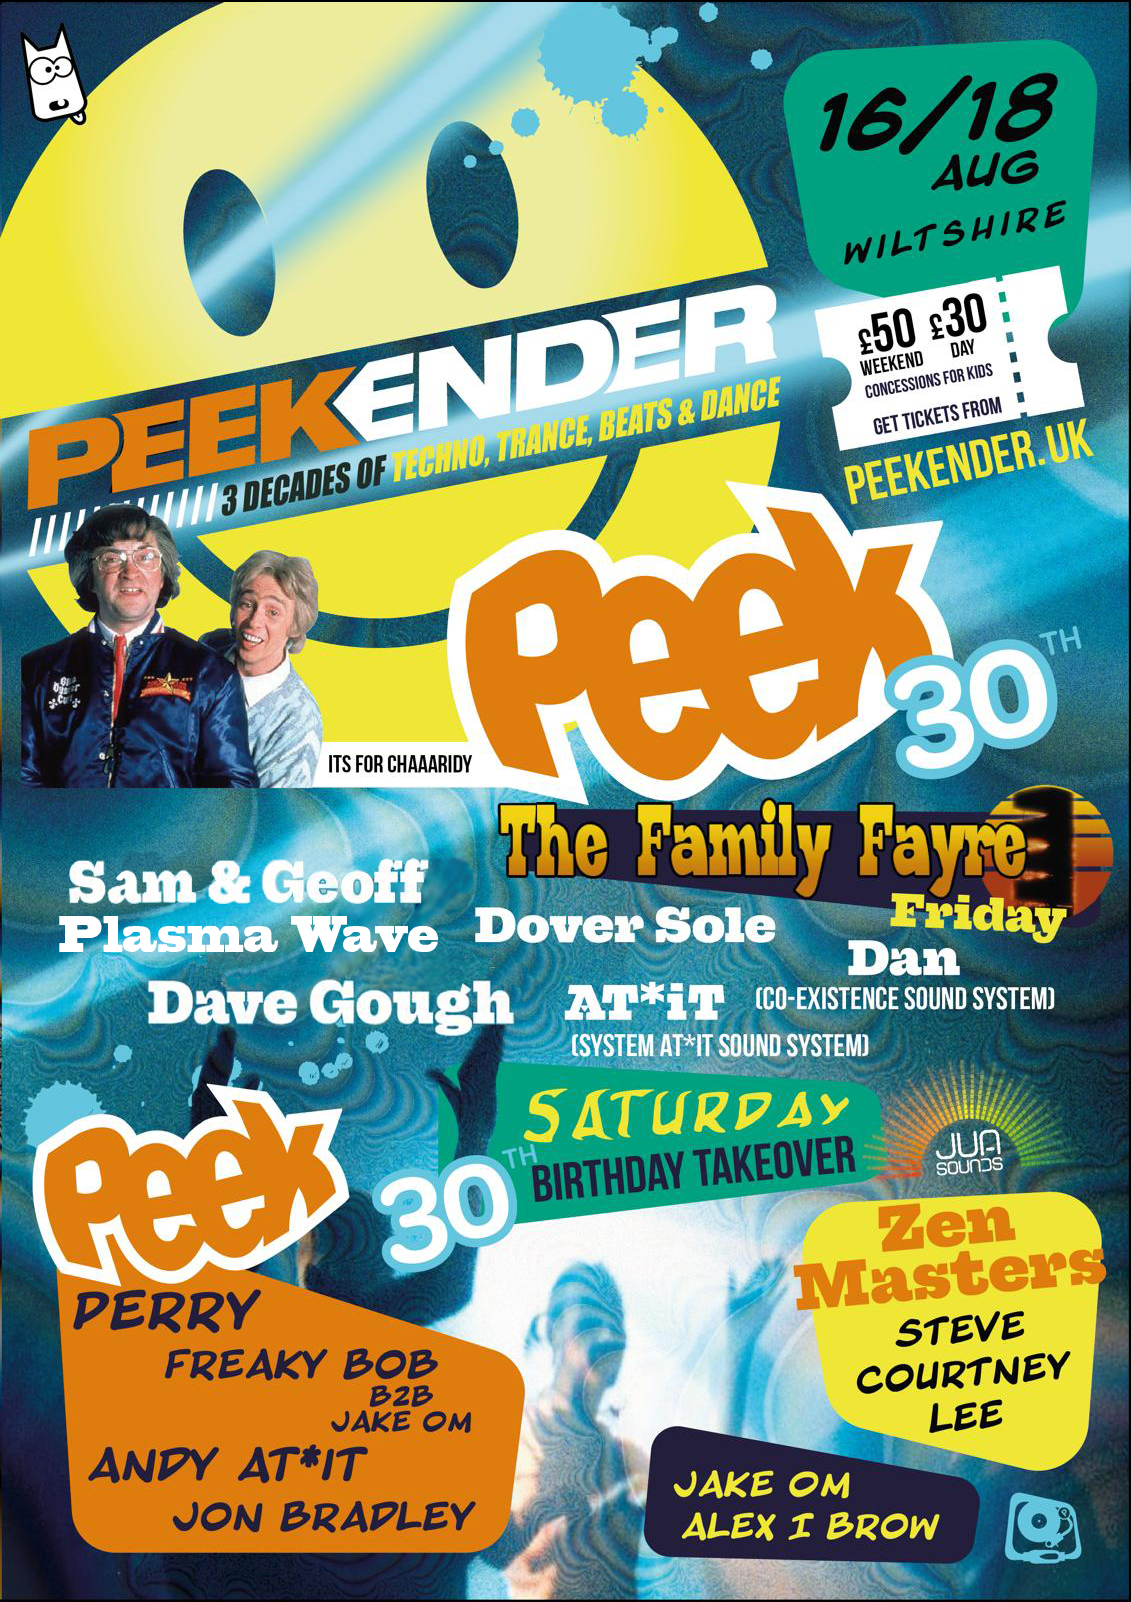
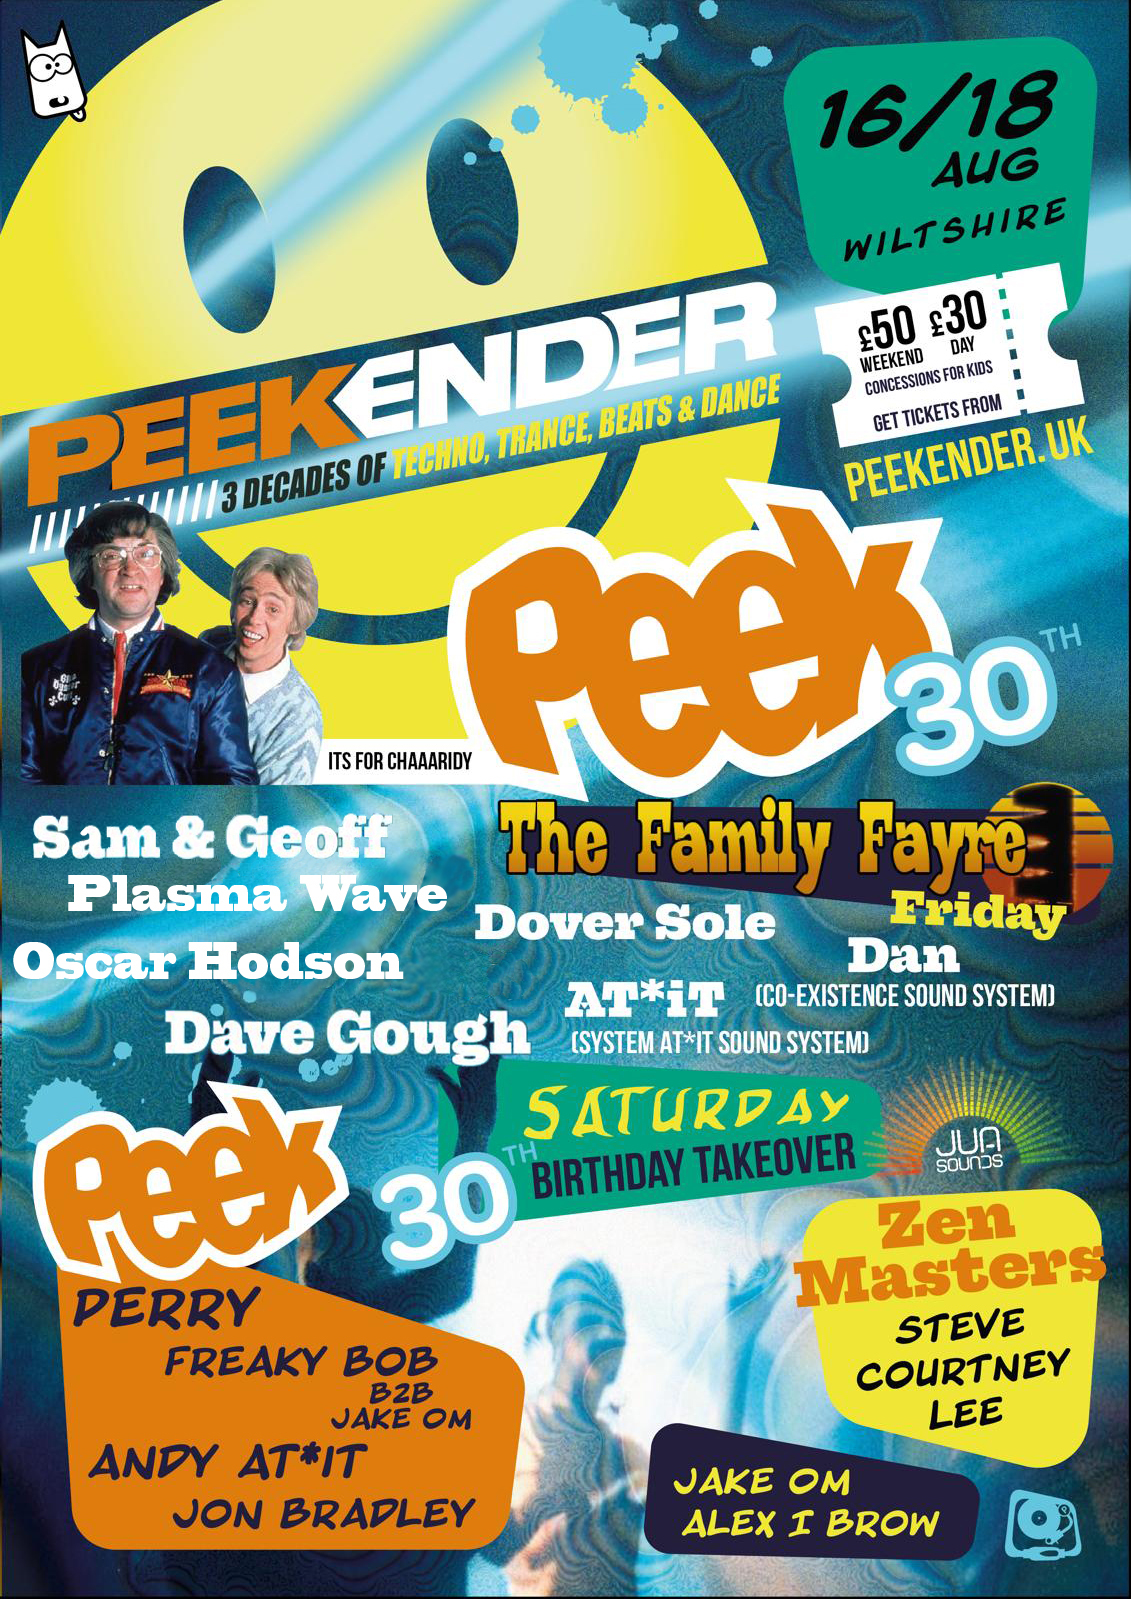
updates

diff --git a/line_up.html b/line_up.html
@@ -77,11 +77,12 @@
             <div class="grid-text1" id="line-up">
 				<h4>The line-up is still being organised and we'll add details here as they come in</h4>
                 <h2>Family Fayre Friday</h2>
+				<p>Oscar Hodson</p>
+				<p>Dave Gough</p>
 				<p>Sam and Geoff - Plasma Wave</p>
+                <p>Andy AT*iT (System AT*iT Sound System)</p>
 				<p>Dover Sole</p>
                 <p>Dan (Co-Existence Sound System)</p>
-				<p>Dave Gough</p>
-                <p>Andy AT*iT (System AT*iT Sound System)</p>
                 <br>
                 <h2>Peek Saturday - 30th Birthday Take Over</h2>
                 <h4>Zen Masters</h4>

diff --git a/index.html b/index.html
@@ -71,7 +71,7 @@
 			</div>
             <div class="grid-side"></div>  
             <div class="grid-side"></div>  
-            <div class="grid-page-logo"><img id="front-page-smiley" src="peekender_images/flyer_2.jpg" /></div>
+            <div class="grid-page-logo"><img id="front-page-smiley" src="peekender_images/flyer_3.jpg" /></div>
             <div class="grid-side"></div>  
             <div class="grid-side"></div>  
             <div class="grid-text1">
